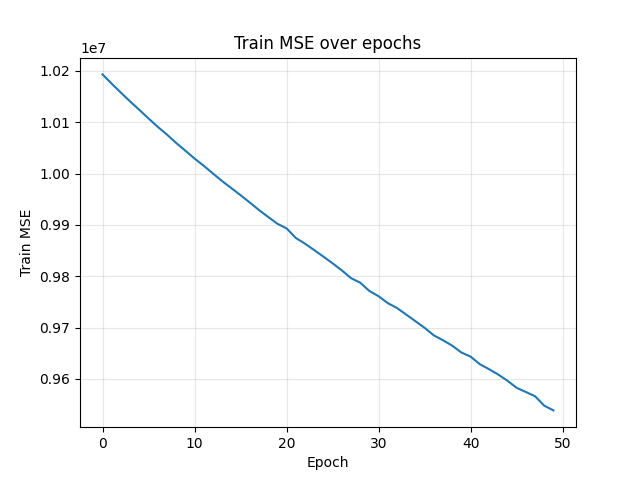
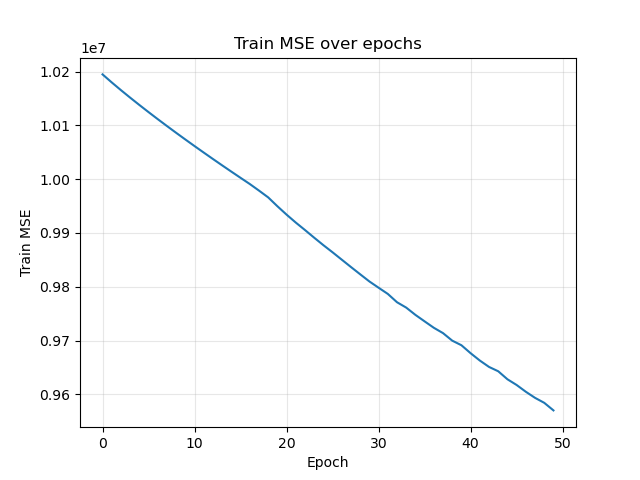
good

diff --git a/benchmark/test/train_msfr.py b/benchmark/test/train_msfr.py
@@ -70,7 +70,7 @@ def train_val_split(X: torch.Tensor, y: torch.Tensor, val_ratio: float = 0.1) ->
     return (X[:split], y[:split]), (X[split:], y[split:])
 
 def lr_lambda(epoch):
-    if epoch < 50:
+    if epoch < 40:
         return 1.0
     else:
         return 0.95 ** (epoch - 50)
